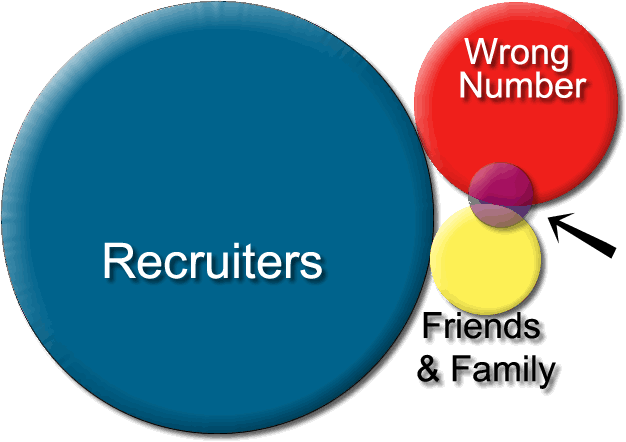
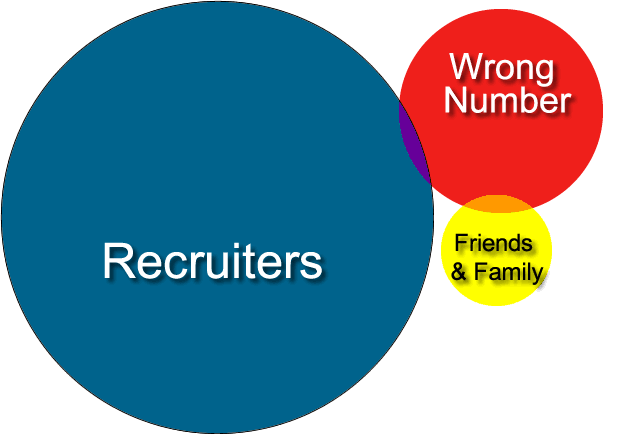
updates

Changed region(s): [[0.0911, 0.0, 1.0, 1.0], [0.0, 0.0, 0.5463, 0.7353], [0.5767, 0.1176, 0.607, 0.1765]]

diff --git a/index.html b/index.html
@@ -8,6 +8,88 @@ Made by: Estelle Weyl
 Copyright:  CC-SA-NC-BY - Creative Commons Attribution-NonCommercial-ShareAlike
 -->
 <link rel="stylesheet" href="css/index.css"/>
+<style>
+#chatList section {
+  background-image: url(img/peopleITalkTo.png);
+  background-repeat: no-repeat;
+  background-position: center 95%;
+}
+#chatList img {
+  visibility:hidden;
+  margin-top: 40px;
+}
+
+
+
+
+#linkedinDrinking .linkedin {
+   font-family: times, times new roman, serif;
+   border-color: #ccc;
+   border-width: 40px 10px 0;
+   border-style: solid;
+   width: 80vw;
+   margin: auto;
+   padding: 20px 20px 0;
+ }
+.linkedin p {
+   font-size: 1.5rem;
+}
+#linkedinDrinking mark {
+  background-color: yellow;
+}
+
+#worstjob div:first-of-type {
+  height: 85vh;
+  overflow:scroll;
+  padding: 20px;
+}
+
+#schools,
+#pipes {
+  background-image: url(img/pipeline.png);
+  background-size: cover;
+}
+#schools svg text {
+  text-shadow: 1px 1px 1px white, 3px 3px 3px black;
+}
+
+#students {
+
+}
+
+#leaks {
+  background-image: url(img/pipelineleak.png);
+  background-size: cover;
+}
+
+
+#deathbulge { /* comic */
+  background-image: url(img/deathbulge.png);
+  background-repeat:  no-repeat;
+  background-size:  contain;
+  background-position: center;
+}
+
+#easyhard blockquote {
+  display: flex;
+  flex-wrap: wrap;
+  padding: 0 10vw;
+}
+#easyhard blockquote * {
+  font-size: 1.8rem;
+}
+#easyhard blockquote > div {
+  flex: 0 0 45%;
+}
+#easyhard blockquote > p {
+  flex: 0 0 100%;
+  text-align: center;
+}
+
+.twitter-tweet {
+  margin-right: 240px;
+}
+</style>
 </head>
 
 <body>
@@ -31,8 +113,8 @@ Copyright:  CC-SA-NC-BY - Creative Commons Attribution-NonCommercial-ShareAlike
     </div>
 
 <!-- Recruiter 1-->
-<div class="slide intro">
-  <header><h1>There are tons of jobs available</h1></header>
+<div class="slide intro" id="callLog">
+  <header><h1></h1></header>
     <section class="content">
       <img alt="90% of calls are from recruiters" src="img/piechart.png">
     </section>
@@ -40,50 +122,63 @@ Copyright:  CC-SA-NC-BY - Creative Commons Attribution-NonCommercial-ShareAlike
 
 <!-- Who I would like to talk to
 It's a champagne problem-->
-<div class="slide intro">
-  <header><h1>Whom I am willing to talk to</h1></header>
-    <section class="content">
-      <img alt="I would rather be speaking to wrong callers" src="img/peopleITalkTo.png">
+<div class="slide intro" id="chatList">
+  <header><h1></h1></header>
+    <section class="content"><img alt="I would rather be speaking to wrong callers" src="img/peopleITalkTo2.png">
     </section>
 </div>
 
 <!-- recruiters don't know what they're doing -->
-<div class="slide">
+<div class="slide" id="linkedinDrinking">
 <blockquote class="twitter-tweet" lang="en"><p>Everyone who (LinkedIn) endorsed me for drinking, your dream has been realized: <a href="http://t.co/jrtx9GPykv">pic.twitter.com/jrtx9GPykv</a></p>&mdash; Jay Fields (@thejayfields) <a href="https://twitter.com/thejayfields/status/573035300110385152">March 4, 2015</a></blockquote>
+  <div class="linkedin">
+    <p><span style="font-family: arial, sans-serif">Good Day</span> Jay Fields,</p>
+    <p>Greetings and thanks for joining my network on LinkedIn. I am interested in discussing <mark>your experience with back-end development and drinking</mark>, as we have been looking for a distinguished candidate such as yourself for a position with one of our clients.
+  </div>
 </div>
 
 
 <!-- worst job ever -->
-<div class="slide">
-  <div style="height: 85vh; overflow:scroll">
+<div class="slide" id="worstjob">
+  <div>
   <img src="img/worstjobever.png">
 </div>
 </div>
 
 <!-- What recruiters sell us -->
-<div class="slide">
-<blockquote class="twitter-tweet" lang="en"><p>What recruiters think I want: Beer cart, ping pong table&#10;What I really want: Silence, coworkers with good table manners, attention to UX</p>&mdash; Rebecca Slatkin (@RebeccaSlatkin) <a href="https://twitter.com/RebeccaSlatkin/status/588061034822377472">April 14, 2015</a></blockquote>
+<div class="slide" id="pingpong">
+<blockquote class="twitter-tweet" lang="en"><p>What recruiters think I want: Beer cart, ping pong table.
+  <br/>
+  <br/>What I really want: Silence, coworkers with good table manners, attention to UX</p>&mdash; Rebecca Slatkin (@RebeccaSlatkin) <a href="https://twitter.com/RebeccaSlatkin/status/588061034822377472">April 14, 2015</a></blockquote>
 </div>
 
 
 <!-- Huge Pipes -->
-<div class="slide" style="background-image: url(img/pipeline.png);  background-size: cover;">
+<div class="slide" id="pipes">
   <header><h1></h1></header>
     <section class="content">
     </section>
 </div>
 
 <!-- schools -->
-<div class="slide">
+<div class="slide" id="schools">
 
 
 <svg width="960" height="600" version="1.1" xmlns="http://www.w3.org/2000/svg" style="
-transform: scale(1.5); transform-origin: top left;"><g></g><g transform="translate(480,300)scale(1.038062334060669,1.038062334060669)"><text text-anchor="middle" transform="translate(159,64)rotate(59.99999999999999)" style="font-size: 52px; font-family: Impact; fill: rgb(165, 81, 148);">Code</text><text text-anchor="middle" transform="translate(-67,68)rotate(59.999999999999986)" style="font-size: 10px; font-family: Impact; fill: rgb(99, 121, 57);">End</text><text text-anchor="middle" transform="translate(178,-33)rotate(59.99999999999999)" style="font-size: 100px; font-family: Impact; fill: rgb(231, 186, 82);">University</text><text text-anchor="middle" transform="translate(-130,-94)rotate(-29.999999999999993)" style="font-size: 72px; font-family: Impact; fill: rgb(231, 203, 148);">College</text><text text-anchor="middle" transform="translate(-96,35)rotate(29.999999999999996)" style="font-size: 80px; font-family: Impact; fill: rgb(132, 60, 57);">School</text><text text-anchor="middle" transform="translate(-59,-197)rotate(-29.999999999999996)" style="font-size: 52px; font-family: Impact; fill: rgb(173, 73, 74);">Academy</text><text text-anchor="middle" transform="translate(312,-26)rotate(29.999999999999996)" style="font-size: 37px; font-family: Impact; fill: rgb(214, 97, 107);">Community</text><text text-anchor="middle" transform="translate(-116,-63)rotate(59.99999999999999)" style="font-size: 37px; font-family: Impact; fill: rgb(231, 150, 156);">San</text><text text-anchor="middle" transform="translate(91,-12)rotate(59.99999999999999)" style="font-size: 37px; font-family: Impact; fill: rgb(123, 65, 115);">State</text><text text-anchor="middle" transform="translate(282,-25)rotate(29.999999999999996)" style="font-size: 10px; font-family: Impact; fill: rgb(165, 81, 148);">Codecademy</text><text text-anchor="middle" transform="translate(-20,-137)rotate(29.999999999999996)" style="font-size: 10px; font-family: Impact; fill: rgb(206, 109, 189);">Foothill</text><text text-anchor="middle" transform="translate(-199,-158)rotate(59.99999999999999)" style="font-size: 10px; font-family: Impact; fill: rgb(222, 158, 214);">Francisco</text><text text-anchor="middle" transform="translate(-38,-49)rotate(29.999999999999996)" style="font-size: 10px; font-family: Impact; fill: rgb(57, 59, 121);">PluralSight</text><text text-anchor="middle" transform="translate(183,12)rotate(59.99999999999999)" style="font-size: 10px; font-family: Impact; fill: rgb(82, 84, 163);">Front</text><text text-anchor="middle" transform="translate(138,-21)rotate(0)" style="font-size: 10px; font-family: Impact; fill: rgb(107, 110, 207);">Masters</text><text text-anchor="middle" transform="translate(109,-128)rotate(59.99999999999999)" style="font-size: 10px; font-family: Impact; fill: rgb(156, 158, 222);">General</text><text text-anchor="middle" transform="translate(-215,-129)rotate(-29.999999999999996)" style="font-size: 10px; font-family: Impact; fill: rgb(99, 121, 57);">Assembly</text><text text-anchor="middle" transform="translate(57,-79)rotate(-59.99999999999999)" style="font-size: 10px; font-family: Impact; fill: rgb(140, 162, 82);">Ohlone</text><text text-anchor="middle" transform="translate(-228,-145)rotate(0)" style="font-size: 10px; font-family: Impact; fill: rgb(181, 207, 107);">Stanford</text><text text-anchor="middle" transform="translate(-193,-31)rotate(-59.99999999999999)" style="font-size: 10px; font-family: Impact; fill: rgb(206, 219, 156);">Udemy</text><text text-anchor="middle" transform="translate(38,-92)rotate(59.99999999999999)" style="font-size: 10px; font-family: Impact; fill: rgb(140, 109, 49);">Palm</text><text text-anchor="middle" transform="translate(198,-167)rotate(0)" style="font-size: 10px; font-family: Impact; fill: rgb(189, 158, 57);">Beach</text><text text-anchor="middle" transform="translate(45,-108)rotate(29.999999999999993)" style="font-size: 10px; font-family: Impact; fill: rgb(231, 186, 82);">Portland</text><text text-anchor="middle" transform="translate(142,81)rotate(-59.99999999999999)" style="font-size: 10px; font-family: Impact; fill: rgb(231, 203, 148);">Jose</text><text text-anchor="middle" transform="translate(146,-47)rotate(-29.999999999999993)" style="font-size: 10px; font-family: Impact; fill: rgb(132, 60, 57);">Berkeley</text><text text-anchor="middle" transform="translate(-47,-28)" style="font-size: 10px; font-family: Impact; fill: rgb(173, 73, 74);">Rochester</text><text text-anchor="middle" transform="translate(-159,12)rotate(59.99999999999999)" style="font-size: 10px; font-family: Impact; fill: rgb(214, 97, 107);">Khan</text><text text-anchor="middle" transform="translate(-210,-32)rotate(-29.999999999999996)" style="font-size: 10px; font-family: Impact; fill: rgb(231, 150, 156);">Girl</text><text text-anchor="middle" transform="translate(-234,-105)rotate(0)" style="font-size: 10px; font-family: Impact; fill: rgb(123, 65, 115);">Develop</text><text text-anchor="middle" transform="translate(204,29)rotate(-59.99999999999999)" style="font-size: 10px; font-family: Impact; fill: rgb(165, 81, 148);">Black</text><text text-anchor="middle" transform="translate(-136,-69)rotate(59.99999999999999)" style="font-size: 10px; font-family: Impact; fill: rgb(206, 109, 189);">Girls</text><text text-anchor="middle" transform="translate(-242,-25)rotate(0)" style="font-size: 10px; font-family: Impact; fill: rgb(222, 158, 214);">Thinkful</text><text text-anchor="middle" transform="translate(141,-8)" style="font-size: 10px; font-family: Impact; fill: rgb(57, 59, 121);">Miami</text><text text-anchor="middle" transform="translate(48,-121)rotate(0)" style="font-size: 10px; font-family: Impact; fill: rgb(82, 84, 163);">Ad</text><text text-anchor="middle" transform="translate(-263,-110)rotate(-29.999999999999996)" style="font-size: 10px; font-family: Impact; fill: rgb(107, 110, 207);">Harvard</text><text text-anchor="middle" transform="translate(209,111)rotate(-29.999999999999996)" style="font-size: 10px; font-family: Impact; fill: rgb(156, 158, 222);">Carnegie</text><text text-anchor="middle" transform="translate(-198,19)rotate(-29.999999999999993)" style="font-size: 10px; font-family: Impact; fill: rgb(99, 121, 57);">Mellon</text><text text-anchor="middle" transform="translate(-123,34)rotate(29.999999999999996)" style="font-size: 10px; font-family: Impact; fill: rgb(140, 162, 82);">Hebrew</text><text text-anchor="middle" transform="translate(-109,83)rotate(29.999999999999996)" style="font-size: 10px; font-family: Impact; fill: rgb(181, 207, 107);">Georgia</text><text text-anchor="middle" transform="translate(-215,7)rotate(-59.999999999999986)" style="font-size: 10px; font-family: Impact; fill: rgb(206, 219, 156);">Southern</text><text text-anchor="middle" transform="translate(-42,-106)rotate(-59.999999999999986)" style="font-size: 10px; font-family: Impact; fill: rgb(140, 109, 49);">Loyola</text><text text-anchor="middle" transform="translate(229,132)rotate(0)" style="font-size: 10px; font-family: Impact; fill: rgb(189, 158, 57);">Marymount</text><text text-anchor="middle" transform="translate(126,41)rotate(29.999999999999993)" style="font-size: 10px; font-family: Impact; fill: rgb(231, 186, 82);">Salzburg</text><text text-anchor="middle" transform="translate(156,95)rotate(59.99999999999999)" style="font-size: 10px; font-family: Impact; fill: rgb(231, 203, 148);">Applied</text><text text-anchor="middle" transform="translate(-259,-41)rotate(-29.999999999999996)" style="font-size: 10px; font-family: Impact; fill: rgb(132, 60, 57);">Science</text><text text-anchor="middle" transform="translate(82,140)rotate(-59.99999999999999)" style="font-size: 10px; font-family: Impact; fill: rgb(173, 73, 74);">Ulster</text><text text-anchor="middle" transform="translate(-18,-2)rotate(-29.999999999999996)" style="font-size: 10px; font-family: Impact; fill: rgb(214, 97, 107);">Glasgow</text><text text-anchor="middle" transform="translate(-42,88)rotate(59.99999999999999)" style="font-size: 10px; font-family: Impact; fill: rgb(231, 150, 156);">Calgary</text><text text-anchor="middle" transform="translate(-251,-133)rotate(29.999999999999996)" style="font-size: 10px; font-family: Impact; fill: rgb(123, 65, 115);">Colby</text><text text-anchor="middle" transform="translate(-285,-70)rotate(59.99999999999999)" style="font-size: 10px; font-family: Impact; fill: rgb(165, 81, 148);">Hackbright</text><text text-anchor="middle" transform="translate(339,76)rotate(59.99999999999999)" style="font-size: 37px; font-family: Impact; fill: rgb(206, 109, 189);">Selftaught</text><text text-anchor="middle" transform="translate(-55,165)rotate(-29.999999999999993)" style="font-size: 52px; font-family: Impact; fill: rgb(222, 158, 214);">Conferences</text><text text-anchor="middle" transform="translate(-175,104)rotate(29.999999999999996)" style="font-size: 10px; font-family: Impact; fill: rgb(57, 59, 121);">Acedemy</text><text text-anchor="middle" transform="translate(51,59)rotate(59.99999999999999)" style="font-size: 80px; font-family: Impact; fill: rgb(82, 84, 163);">Self taught</text></g></svg>
+transform: scale(1.5); transform-origin: top left; "><g></g><g transform="translate(480,300)scale(1.038062334060669,1.038062334060669)"><text text-anchor="middle" transform="translate(159,64)rotate(59.99999999999999)" style="font-size: 52px; font-family: Impact; fill: rgb(165, 81, 148);">Code</text><text text-anchor="middle" transform="translate(-67,68)rotate(59.999999999999986)" style="font-size: 10px; font-family: Impact; fill: rgb(99, 121, 57);">End</text><text text-anchor="middle" transform="translate(178,-33)rotate(59.99999999999999)" style="font-size: 100px; font-family: Impact; fill: rgb(231, 186, 82);">University</text><text text-anchor="middle" transform="translate(-130,-94)rotate(-29.999999999999993)" style="font-size: 72px; font-family: Impact; fill: rgb(231, 203, 148);">College</text><text text-anchor="middle" transform="translate(-96,35)rotate(29.999999999999996)" style="font-size: 80px; font-family: Impact; fill: rgb(132, 60, 57);">School</text><text text-anchor="middle" transform="translate(-59,-197)rotate(-29.999999999999996)" style="font-size: 52px; font-family: Impact; fill: rgb(173, 73, 74);">Academy</text><text text-anchor="middle" transform="translate(312,-26)rotate(29.999999999999996)" style="font-size: 37px; font-family: Impact; fill: rgb(214, 97, 107);">Community</text><text text-anchor="middle" transform="translate(-116,-63)rotate(59.99999999999999)" style="font-size: 37px; font-family: Impact; fill: rgb(231, 150, 156);">San</text><text text-anchor="middle" transform="translate(91,-12)rotate(59.99999999999999)" style="font-size: 37px; font-family: Impact; fill: rgb(123, 65, 115);">State</text><text text-anchor="middle" transform="translate(282,-25)rotate(29.999999999999996)" style="font-size: 10px; font-family: Impact; fill: rgb(165, 81, 148);">Codecademy</text><text text-anchor="middle" transform="translate(-20,-137)rotate(29.999999999999996)" style="font-size: 10px; font-family: Impact; fill: rgb(206, 109, 189);">Foothill</text><text text-anchor="middle" transform="translate(-199,-158)rotate(59.99999999999999)" style="font-size: 10px; font-family: Impact; fill: rgb(222, 158, 214);">Francisco</text><text text-anchor="middle" transform="translate(-38,-49)rotate(29.999999999999996)" style="font-size: 10px; font-family: Impact; fill: rgb(57, 59, 121);">PluralSight</text><text text-anchor="middle" transform="translate(183,12)rotate(59.99999999999999)" style="font-size: 10px; font-family: Impact; fill: rgb(82, 84, 163);">Front</text><text text-anchor="middle" transform="translate(138,-21)rotate(0)" style="font-size: 10px; font-family: Impact; fill: rgb(107, 110, 207);">Masters</text><text text-anchor="middle" transform="translate(109,-128)rotate(59.99999999999999)" style="font-size: 10px; font-family: Impact; fill: rgb(156, 158, 222);">General</text><text text-anchor="middle" transform="translate(-215,-129)rotate(-29.999999999999996)" style="font-size: 10px; font-family: Impact; fill: rgb(99, 121, 57);">Assembly</text><text text-anchor="middle" transform="translate(57,-79)rotate(-59.99999999999999)" style="font-size: 10px; font-family: Impact; fill: rgb(140, 162, 82);">Ohlone</text><text text-anchor="middle" transform="translate(-228,-145)rotate(0)" style="font-size: 10px; font-family: Impact; fill: rgb(181, 207, 107);">Stanford</text><text text-anchor="middle" transform="translate(-193,-31)rotate(-59.99999999999999)" style="font-size: 10px; font-family: Impact; fill: rgb(206, 219, 156);">Udemy</text><text text-anchor="middle" transform="translate(38,-92)rotate(59.99999999999999)" style="font-size: 10px; font-family: Impact; fill: rgb(140, 109, 49);">Palm</text><text text-anchor="middle" transform="translate(198,-167)rotate(0)" style="font-size: 10px; font-family: Impact; fill: rgb(189, 158, 57);">Beach</text><text text-anchor="middle" transform="translate(45,-108)rotate(29.999999999999993)" style="font-size: 10px; font-family: Impact; fill: rgb(231, 186, 82);">Portland</text><text text-anchor="middle" transform="translate(142,81)rotate(-59.99999999999999)" style="font-size: 10px; font-family: Impact; fill: rgb(231, 203, 148);">Jose</text><text text-anchor="middle" transform="translate(146,-47)rotate(-29.999999999999993)" style="font-size: 10px; font-family: Impact; fill: rgb(132, 60, 57);">Berkeley</text><text text-anchor="middle" transform="translate(-47,-28)" style="font-size: 10px; font-family: Impact; fill: rgb(173, 73, 74);">Rochester</text><text text-anchor="middle" transform="translate(-159,12)rotate(59.99999999999999)" style="font-size: 10px; font-family: Impact; fill: rgb(214, 97, 107);">Khan</text><text text-anchor="middle" transform="translate(-210,-32)rotate(-29.999999999999996)" style="font-size: 10px; font-family: Impact; fill: rgb(231, 150, 156);">Girl</text><text text-anchor="middle" transform="translate(-234,-105)rotate(0)" style="font-size: 10px; font-family: Impact; fill: rgb(123, 65, 115);">Develop</text><text text-anchor="middle" transform="translate(204,29)rotate(-59.99999999999999)" style="font-size: 10px; font-family: Impact; fill: rgb(165, 81, 148);">Black</text><text text-anchor="middle" transform="translate(-136,-69)rotate(59.99999999999999)" style="font-size: 10px; font-family: Impact; fill: rgb(206, 109, 189);">Girls</text><text text-anchor="middle" transform="translate(-242,-25)rotate(0)" style="font-size: 10px; font-family: Impact; fill: rgb(222, 158, 214);">Thinkful</text><text text-anchor="middle" transform="translate(141,-8)" style="font-size: 10px; font-family: Impact; fill: rgb(57, 59, 121);">Miami</text><text text-anchor="middle" transform="translate(48,-121)rotate(0)" style="font-size: 10px; font-family: Impact; fill: rgb(82, 84, 163);">Ad</text><text text-anchor="middle" transform="translate(-263,-110)rotate(-29.999999999999996)" style="font-size: 10px; font-family: Impact; fill: rgb(107, 110, 207);">Harvard</text><text text-anchor="middle" transform="translate(209,111)rotate(-29.999999999999996)" style="font-size: 10px; font-family: Impact; fill: rgb(156, 158, 222);">Carnegie</text><text text-anchor="middle" transform="translate(-198,19)rotate(-29.999999999999993)" style="font-size: 10px; font-family: Impact; fill: rgb(99, 121, 57);">Mellon</text><text text-anchor="middle" transform="translate(-123,34)rotate(29.999999999999996)" style="font-size: 10px; font-family: Impact; fill: rgb(140, 162, 82);">Hebrew</text><text text-anchor="middle" transform="translate(-109,83)rotate(29.999999999999996)" style="font-size: 10px; font-family: Impact; fill: rgb(181, 207, 107);">Georgia</text><text text-anchor="middle" transform="translate(-215,7)rotate(-59.999999999999986)" style="font-size: 10px; font-family: Impact; fill: rgb(206, 219, 156);">Southern</text><text text-anchor="middle" transform="translate(-42,-106)rotate(-59.999999999999986)" style="font-size: 10px; font-family: Impact; fill: rgb(140, 109, 49);">Loyola</text><text text-anchor="middle" transform="translate(229,132)rotate(0)" style="font-size: 10px; font-family: Impact; fill: rgb(189, 158, 57);">Marymount</text><text text-anchor="middle" transform="translate(126,41)rotate(29.999999999999993)" style="font-size: 10px; font-family: Impact; fill: rgb(231, 186, 82);">Salzburg</text><text text-anchor="middle" transform="translate(156,95)rotate(59.99999999999999)" style="font-size: 10px; font-family: Impact; fill: rgb(231, 203, 148);">Applied</text><text text-anchor="middle" transform="translate(-259,-41)rotate(-29.999999999999996)" style="font-size: 10px; font-family: Impact; fill: rgb(132, 60, 57);">Science</text><text text-anchor="middle" transform="translate(82,140)rotate(-59.99999999999999)" style="font-size: 10px; font-family: Impact; fill: rgb(173, 73, 74);">Ulster</text><text text-anchor="middle" transform="translate(-18,-2)rotate(-29.999999999999996)" style="font-size: 10px; font-family: Impact; fill: rgb(214, 97, 107);">Glasgow</text><text text-anchor="middle" transform="translate(-42,88)rotate(59.99999999999999)" style="font-size: 10px; font-family: Impact; fill: rgb(231, 150, 156);">Calgary</text><text text-anchor="middle" transform="translate(-251,-133)rotate(29.999999999999996)" style="font-size: 10px; font-family: Impact; fill: rgb(123, 65, 115);">Colby</text><text text-anchor="middle" transform="translate(-285,-70)rotate(59.99999999999999)" style="font-size: 10px; font-family: Impact; fill: rgb(165, 81, 148);">Hackbright</text><text text-anchor="middle" transform="translate(339,76)rotate(59.99999999999999)" style="font-size: 37px; font-family: Impact; fill: rgb(206, 109, 189);">Hackathons</text><text text-anchor="middle" transform="translate(-55,165)rotate(-29.999999999999993)" style="font-size: 52px; font-family: Impact; fill: rgb(222, 158, 214);">Conferences</text><text text-anchor="middle" transform="translate(-175,104)rotate(29.999999999999996)" style="font-size: 10px; font-family: Impact; fill: rgb(57, 59, 121);">Acedemy</text><text text-anchor="middle" transform="translate(51,59)rotate(59.99999999999999)" style="font-size: 80px; font-family: Impact; fill: rgb(82, 84, 163);">Self taught</text></g></svg>
+</div>
+
+
+<!-- Students -->
+<div class="slide" style="background-image: url(img/people.jpg); background-size: contain; background-position: center; background-repeat: no-repeat;">
+  <header><h1></h1></header>
+    <section class="content">
+    </section>
 </div>
 
 
 <!-- Huge Pipes -->
-<div class="slide" style="background-image: url(img/pipelineleak.png);  background-size: cover;">
+<div class="slide" id="leaks">
   <header><h1></h1></header>
     <section class="content">
     </section>
@@ -96,10 +191,40 @@ transform: scale(1.5); transform-origin: top left;"><g></g><g transform="transla
     </section>
 </div>
 
+<!-- Deathbulge -->
+<div class="slide" id="deathbulge">
+  <header><h1></h1></header>
+    <section class="content">
+    </section>
+</div>
+
+
 
 <!-- hard / easy work -->
-<div class="slide">
-<blockquote class="twitter-tweet" lang="en"><p>Easy work:&#10;1 blaming&#10;2 judging&#10;3 imitating&#10;4 pretending&#10;5 waiting&#10;&#10;Hard work:&#10;1 learning&#10;2 teaching&#10;3 inspiring&#10;4 improving&#10;5 giving</p>&mdash; Vala Afshar (@ValaAfshar) <a href="https://twitter.com/ValaAfshar/status/588159157653655552">April 15, 2015</a></blockquote>
+<div class="slide" id="easyhard">
+<blockquote class="twitter-tweet" lang="en">
+  <div><p>Easy work:</p>
+<ol>
+  <li> blaming</li>
+  <li>judging</li>
+  <li>imitating</li>
+  <li>pretending &amp;</li>
+  <li>waiting</li>
+</ol>
+</div>
+<div>
+<p>Hard work:
+  <ol>
+    <li>learning</li>
+    <li>teaching</li>
+    <li>inspiring</li>
+    <li>improving</li>
+    <li>giving</li>
+  </ul>
+</div>
+<p>&mdash; Vala Afshar (@ValaAfshar) <a href="https://twitter.com/ValaAfshar/status/588159157653655552">April 15, 2015</a></p>
+</blockquote>
+
 </div>
 
 
@@ -118,6 +243,15 @@ transform: scale(1.5); transform-origin: top left;"><g></g><g transform="transla
     <div class="slide" style="background-image: url(img/superpower.gif); background-size: contain; background-repeat: no-repeat; background-position: 50% 50%;"></div>
 
 
+
+<!-- Superheroes -->
+<div class="slide" style="background-image: url(img/superheros.jpg); background-size: contain; background-position: center; background-repeat: no-repeat;">
+  <header><h1></h1></header>
+    <section class="content">
+    </section>
+</div>
+
+
 <!-- Credits -->
 <div class="slide">
   <header><h1>Thank you</h1></header>
@@ -129,8 +263,9 @@ transform: scale(1.5); transform-origin: top left;"><g></g><g transform="transla
 <a href="http://www.uswateralliance.org/wp-content/uploads/2014/01/11553710-a-broken-pipe-that-leaks-water-in-all-directions.jpg">www.uswateralliance.org</a>
 </li>
         <li></li>
-        <li>Art and Caracitures: Eric Geronimo </li>
-        <li>Comic: www.lunarbaboon.com - @lunarbaboon</li>
+        <li>Characitures: Eric Geronimo </li>
+        <li>Comic: <a href="http://www.lunarbaboon.com/comics/powers.html">www.lunarbaboon.com</a> - @lunarbaboon</li>
+        <li>Comic: <a href="http://www.deathbulge.com/comics/155?comic_id=155">www.DeathBulge.com</a> - @deathbulge
       </ul>
     </section>
 </div>
